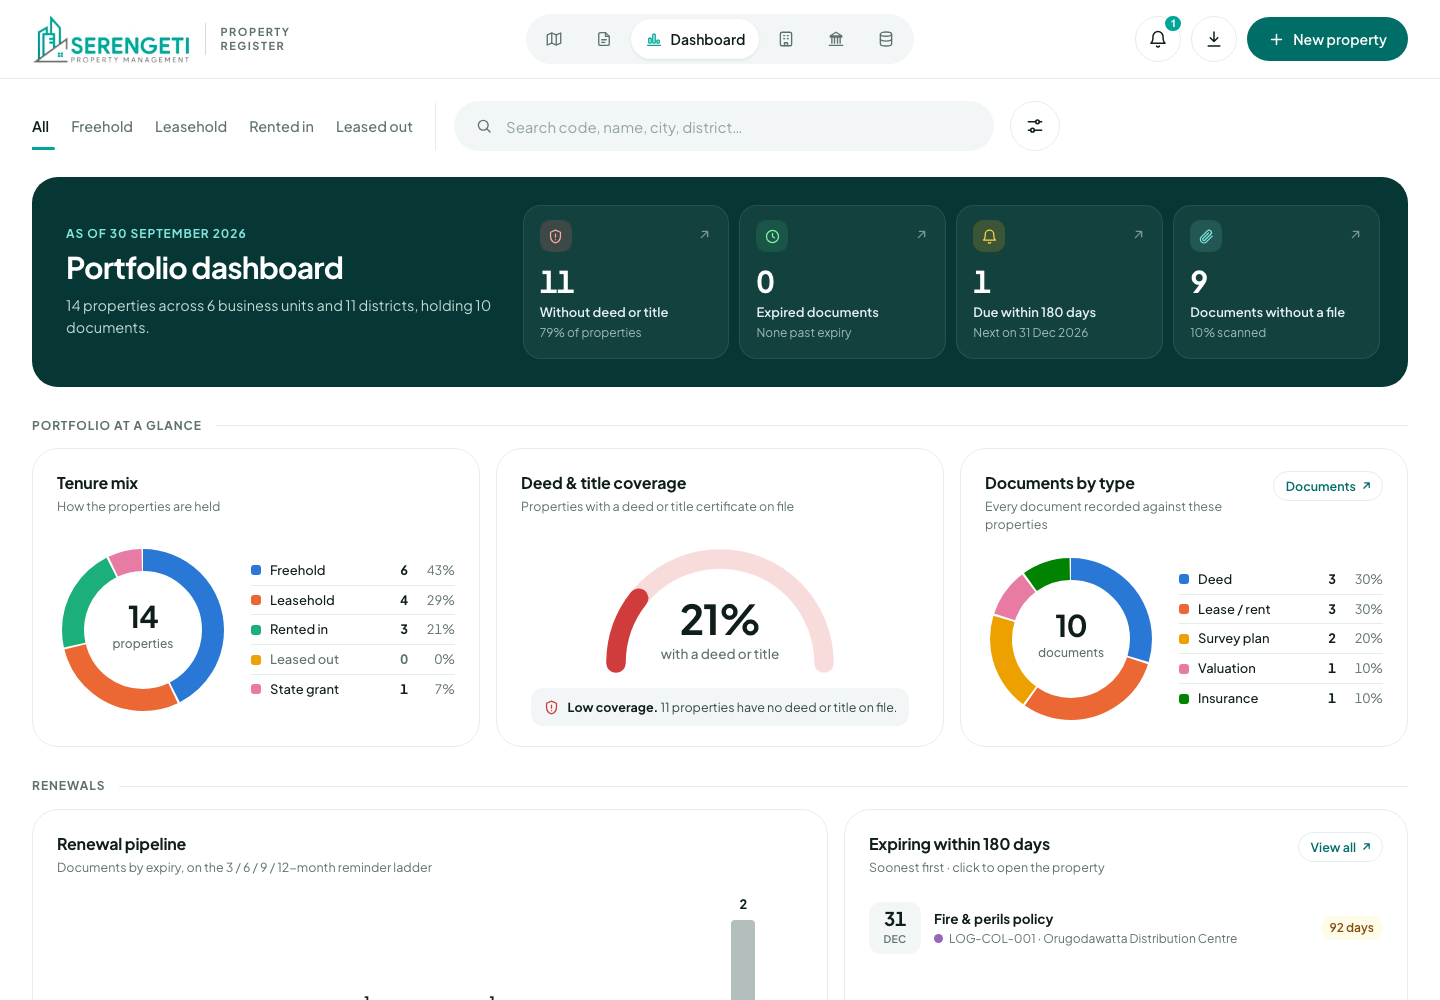
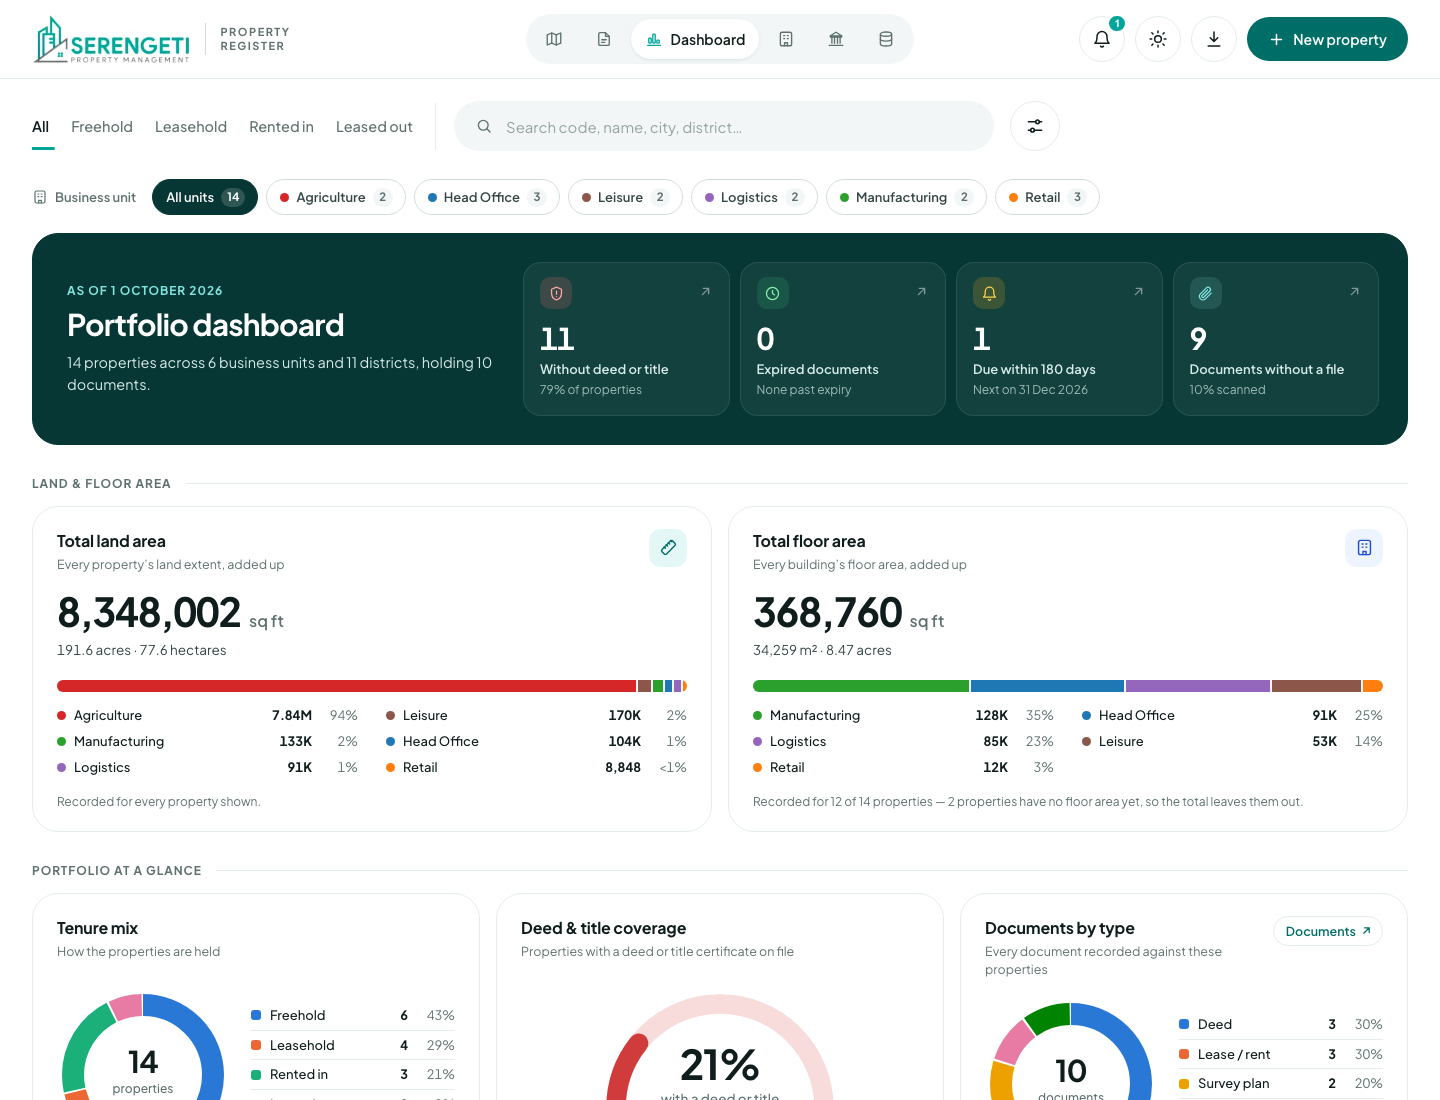
Total land and floor area on the dashboard, with a business-unit filter
The dashboard opens with a row of business-unit chips (one unit, several
to compare, or All) driving the shared SBU filter, so every figure and the
other modules follow it. A new Land & floor area section sums both areas
in square feet over the properties shown, with acres/hectares or m²
alongside, a bar split by business unit, a legend of shares, and how many
properties have the area recorded. The land chart and largest holdings
now read in sq ft too. /api/stats returns land_sqft, floor_sqft and
their recorded counts, overall and per business unit.

diff --git a/web/js/app.js b/web/js/app.js
@@ -1450,23 +1450,110 @@
   }
 
   function landBars(stats) {
-    const withLand = stats.bySbu.filter((s) => s.extent_perches > 0);
-    const total = withLand.reduce((sum, s) => sum + s.extent_perches, 0);
+    const withLand = stats.bySbu.filter((s) => s.land_sqft > 0);
+    const total = withLand.reduce((sum, s) => sum + s.land_sqft, 0);
     const rows = withLand
-      .sort((a, b) => b.extent_perches - a.extent_perches)
+      .sort((a, b) => b.land_sqft - a.land_sqft)
       .map(function (s) {
-        const acres = s.extent_perches / 160;
-        const share = s.extent_perches / total * 100;
-        return { label: s.name, value: acres, dot: s.color,
-                 display: Fmt.num(acres, acres < 10 ? 1 : 0) + ' ac · ' +
-                   (share < 1 ? '<1' : Math.round(share)) + '%' };
+        const share = s.land_sqft / total * 100;
+        return { label: s.name, value: s.land_sqft, dot: s.color,
+                 display: sqftShort(s.land_sqft) + ' · ' + (share < 1 ? '<1' : Math.round(share)) + '%' };
       });
-    const chart = Charts.hbars({ items: rows, className: 'wide-val', emptyText: stats.totals.properties
+    return Charts.hbars({ items: rows, className: 'wide-val', emptyText: stats.totals.properties
       ? 'No land extent recorded' : 'No properties match' });
-    // The exact figures, in the unit the register records.
-    const perches = stats.bySbu.filter((s) => s.extent_perches > 0)
-      .map((s) => s.code + ' ' + Fmt.num(s.extent_perches, 1)).join(' · ');
-    return chart + (perches ? '<p class="chart-foot">In perches: ' + esc(perches) + '</p>' : '');
+  }
+
+  /* ---------- totals: land and floor area, in square feet ---------- */
+
+  // 7.84M, 170K, 8,848: a legend's figures in one consistent short form.
+  function compactNum(n) {
+    if (n >= 1e6) return Fmt.num(n / 1e6, n >= 1e7 ? 1 : 2).replace(/\.?0+$/, '') + 'M';
+    if (n >= 1e4) return Fmt.num(Math.round(n / 1e3)) + 'K';
+    return Fmt.num(Math.round(n));
+  }
+
+  function areaCardHtml(stats, kind) {
+    const t = stats.totals;
+    const land = kind === 'land';
+    const total = land ? t.land_sqft : t.floor_sqft;
+    const recorded = land ? t.with_land : t.with_floor;
+    const key = land ? 'land_sqft' : 'floor_sqft';
+    const parts = stats.bySbu.filter((x) => x[key] > 0).sort((a, b) => b[key] - a[key]);
+    const title = land ? 'Total land area' : 'Total floor area';
+    const sub = land ? 'Every property’s land extent, added up' : 'Every building’s floor area, added up';
+
+    let body;
+    if (!total) {
+      body = '<div class="chart-empty">' + (t.properties
+        ? (land ? 'No land extent recorded yet' : 'No floor area recorded yet')
+        : 'No properties match') + '</div>';
+    } else {
+      const alt = land
+        ? Fmt.num(total / 43560, 1) + ' acres · ' + Fmt.num(total / 107639.104, 1) + ' hectares'
+        : Fmt.num(Math.round(total / 10.7639104)) + ' m² · ' + Fmt.num(total / 43560, 2) + ' acres';
+      // One bar, split by business unit in each unit's own colour.
+      const bar = '<div class="area-bar" role="img" aria-label="' + esc(title + ' by business unit') + '">' +
+        parts.map(function (x) {
+          const share = x[key] / total * 100;
+          return '<span style="flex-grow:' + share.toFixed(3) + ';background:' + esc(x.color) + '"' +
+            ' tabindex="0" data-tip-label="' + esc(x.name) + '" data-tip-value="' +
+            esc(Fmt.num(Math.round(x[key])) + ' sq ft · ' + (share < 1 ? '<1' : Math.round(share)) + '%') + '"></span>';
+        }).join('') + '</div>';
+      const legend = '<ul class="area-legend">' + parts.map(function (x) {
+        const share = x[key] / total * 100;
+        return '<li><i style="background:' + esc(x.color) + '"></i><span>' + esc(x.name) + '</span>' +
+          '<b title="' + esc(Fmt.num(Math.round(x[key])) + ' sq ft') + '">' + esc(compactNum(x[key])) + '</b>' +
+          '<em>' + (share < 1 ? '<1' : Math.round(share)) + '%</em></li>';
+      }).join('') + '</ul>';
+      const missing = t.properties - recorded;
+      body = '<div class="area-total"><b>' + Fmt.num(Math.round(total)) + '</b><span>sq ft</span></div>' +
+        '<p class="area-alt">' + esc(alt) + '</p>' + bar + legend +
+        '<p class="chart-foot">' + (missing
+          ? 'Recorded for ' + recorded + ' of ' + plural(t.properties, 'property', 'properties') +
+            ' — ' + plural(missing, 'property has', 'properties have') + ' no ' +
+            (land ? 'land extent' : 'floor area') + ' yet, so the total leaves ' + (missing === 1 ? 'it' : 'them') + ' out.'
+          : 'Recorded for every property shown.') + '</p>';
+    }
+    return '<section class="chart-card span-6 area-card is-' + kind + '">' +
+      '<header class="chart-head"><div><h3>' + esc(title) + '</h3><p class="chart-sub">' + esc(sub) + '</p></div>' +
+        '<span class="area-icon">' + icon(land ? 'ruler' : 'building') + '</span></header>' +
+      body + '</section>';
+  }
+
+  /* ---------- the dashboard's business-unit filter ---------- */
+
+  function dashFilterHtml() {
+    const sel = state.selectedSbus;
+    const total = state.sbus.reduce((sum, x) => sum + x.property_count, 0);
+    const chip = (id, on, inner, label) =>
+      '<button type="button" class="df-chip' + (on ? ' is-on' : '') + '" data-dash-sbu="' + id + '" ' +
+        'aria-pressed="' + on + '"' + (label ? ' title="' + esc(label) + '"' : '') + '>' + inner + '</button>';
+    return '<div class="dash-filter" role="group" aria-label="Filter the dashboard by business unit">' +
+      '<span class="df-label">' + icon('building') + 'Business unit</span>' +
+      '<div class="df-chips">' +
+        chip('all', !sel, 'All units <b>' + total + '</b>') +
+        state.sbus.map((x) => chip(x.id, !!sel && sel.indexOf(x.id) !== -1,
+          '<i style="background:' + esc(x.color) + '"></i>' + esc(x.name) + ' <b>' + x.property_count + '</b>',
+          x.code + ' — ' + x.name + (sel ? '' : ' · click to show only this unit; add more to compare')
+        )).join('') +
+      '</div>' +
+    '</div>';
+  }
+
+  // From "All", a chip shows just that unit; further chips add to it; removing
+  // the last one returns to All.
+  function pickDashSbu(value) {
+    if (value === 'all') {
+      state.selectedSbus = null;
+    } else {
+      const id = Number(value);
+      const sel = state.selectedSbus ? state.selectedSbus.slice() : [];
+      const at = sel.indexOf(id);
+      if (at === -1) sel.push(id); else sel.splice(at, 1);
+      state.selectedSbus = !sel.length || sel.length === state.sbus.length ? null : sel;
+    }
+    renderSbuFilters();
+    refreshProperties();
   }
 
   function provinceColumns(stats) {
@@ -1491,7 +1578,7 @@
 
   function largestHoldings() {
     const ranked = state.properties
-      .map((p) => ({ p: p, perches: toPerches(p.extent_value, p.extent_unit) }))
+      .map((p) => ({ p: p, perches: (p.extent_sqft || 0) / 272.25 }))
       .filter((x) => x.perches > 0)
       .sort((a, b) => b.perches - a.perches);
     if (!ranked.length) {
@@ -1500,20 +1587,21 @@
     }
     const totalLand = ranked.reduce((s, x) => s + x.perches, 0);
     return '<ul class="holdings">' + ranked.slice(0, 5).map(function (x) {
-      const acres = x.perches / 160;
       const share = Math.round(x.perches / totalLand * 100);
       return '<li data-open="' + x.p.id + '" tabindex="0">' +
         '<span class="lh-thumb">' + coverHtml(x.p, 0.78) + '</span>' +
         '<span class="lh-text"><b>' + esc(x.p.name) + '</b>' +
           '<span>' + esc(x.p.property_code) + ' · ' + esc(x.p.sbu_code) + '</span></span>' +
-        '<span class="lh-figs"><b>' + Fmt.num(acres, acres < 10 ? 1 : 0) + ' ac</b>' +
+        '<span class="lh-figs"><b>' + esc(sqftShort(x.p.extent_sqft)) + '</b>' +
           '<span class="lh-share">' + share + '% of land</span></span>' +
       '</li>';
     }).join('') + '</ul>';
   }
 
   function chartsHtml(stats) {
-    return sectionHead('Portfolio at a glance') +
+    return sectionHead('Land & floor area') +
+      '<div class="chart-grid">' + areaCardHtml(stats, 'land') + areaCardHtml(stats, 'floor') + '</div>' +
+      sectionHead('Portfolio at a glance') +
       '<div class="chart-grid">' +
         chartCard({ span: 4, title: 'Tenure mix', sub: 'How the properties are held',
                     body: tenureDonut(stats) }) +
@@ -1532,7 +1620,7 @@
       '</div>' +
       sectionHead('Land & location') +
       '<div class="chart-grid">' +
-        chartCard({ span: 7, title: 'Land extent by business unit', sub: 'Acres and share of all land, largest first',
+        chartCard({ span: 7, title: 'Land by business unit', sub: 'Square feet and share of all land, largest first',
                     body: landBars(stats) }) +
         chartCard({ span: 5, title: 'Largest holdings', sub: 'By land extent · click to open',
                     body: largestHoldings(), link: { go: 'register', label: 'Register' } }) +
@@ -1613,6 +1701,7 @@
     }
 
     host.innerHTML =
+      dashFilterHtml() +
       dashHeroHtml(stats) +
       filterBannerHtml(stats) +
       chartsHtml(stats) +
@@ -1621,6 +1710,8 @@
     if (!host.__dashGo) {
       host.__dashGo = true;
       host.addEventListener('click', function (event) {
+        const pick = event.target.closest('[data-dash-sbu]');
+        if (pick) { pickDashSbu(pick.dataset.dashSbu); return; }
         const target = event.target.closest('[data-dash-go]');
         if (target) goFromDashboard(target.dataset.dashGo);
       });

diff --git a/web/css/styles.css b/web/css/styles.css
@@ -2126,3 +2126,85 @@ html.theme-switching *, html.theme-switching *::before, html.theme-switching *::
 /* Fractional zoom can leave hairline gaps between map tiles, which show as
    seams on the dark map; overlapping each tile by half a pixel closes them. */
 .leaflet-tile-container img.leaflet-tile { width: 256.5px !important; height: 256.5px !important; }
+
+/* ==========================================================================
+   Dashboard: business-unit filter and area totals
+   ========================================================================== */
+
+/* one row of filters above everything it changes */
+.dash-filter {
+  display: flex; align-items: center; gap: 14px;
+  margin-bottom: 16px;
+}
+.df-label {
+  flex: 0 0 auto; display: inline-flex; align-items: center; gap: 7px;
+  font-size: 13px; font-weight: 600; color: var(--text-muted);
+}
+.df-label .ic { width: 16px; height: 16px; }
+.df-chips {
+  display: flex; gap: 8px; min-width: 0;
+  overflow-x: auto; scrollbar-width: none; padding: 2px;
+}
+.df-chips::-webkit-scrollbar { display: none; }
+.df-chip {
+  flex: 0 0 auto; display: inline-flex; align-items: center; gap: 7px;
+  height: 36px; padding: 0 12px 0 13px;
+  border: 1px solid var(--border-strong); border-radius: var(--pill);
+  background: var(--surface); color: var(--text-2);
+  font: inherit; font-size: 13px; font-weight: 600; white-space: nowrap; cursor: pointer;
+  transition: background .15s, border-color .15s, color .15s;
+}
+.df-chip i { width: 9px; height: 9px; border-radius: 50%; flex: 0 0 auto; }
+.df-chip b {
+  min-width: 20px; padding: 1px 6px; border-radius: var(--pill);
+  background: var(--surface-2); color: var(--text-muted);
+  font-size: 11.5px; text-align: center;
+}
+.df-chip:hover { border-color: var(--accent); color: var(--text); }
+.df-chip:focus-visible { outline: 3px solid var(--brand-500); outline-offset: 2px; }
+.df-chip.is-on { background: var(--inverse); border-color: var(--inverse); color: var(--on-inverse); }
+.df-chip.is-on b { background: color-mix(in srgb, var(--on-inverse) 16%, transparent); color: var(--on-inverse); }
+.df-chip.is-on i { box-shadow: 0 0 0 2px var(--inverse), 0 0 0 3px color-mix(in srgb, var(--on-inverse) 60%, transparent); }
+
+.chart-card.span-6 { grid-column: span 6; }
+
+/* the two totals */
+.area-icon {
+  flex: 0 0 auto; width: 38px; height: 38px; display: grid; place-items: center;
+  border-radius: 12px; background: var(--accent-soft); color: var(--accent-text);
+}
+.area-icon .ic { width: 19px; height: 19px; }
+.area-card.is-floor .area-icon { background: var(--info-soft); color: var(--info-text); }
+.area-total { display: flex; align-items: baseline; gap: 8px; }
+.area-total b {
+  font-size: 40px; font-weight: 700; line-height: 1; letter-spacing: -.035em;
+  font-variant-numeric: tabular-nums;
+}
+.area-total span { font-size: 16px; font-weight: 600; color: var(--text-muted); }
+.area-alt { margin-top: 8px; font-size: 13.5px; color: var(--text-2); font-variant-numeric: tabular-nums; }
+
+/* share by business unit: one bar, 2px surface gaps, rounded ends */
+.area-bar {
+  display: flex; gap: 2px; height: 12px; margin-top: 20px;
+  border-radius: var(--pill); overflow: hidden; background: var(--surface-2);
+}
+.area-bar span { display: block; min-width: 4px; flex-basis: 0; transition: filter .15s; }
+.area-bar span:hover, .area-bar span:focus-visible { filter: brightness(1.12); outline: none; }
+
+.area-legend {
+  list-style: none; margin: 14px 0 0; padding: 0;
+  display: grid; grid-template-columns: repeat(auto-fill, minmax(min(250px, 100%), 1fr)); gap: 7px 28px;
+}
+.area-legend li {
+  display: grid; grid-template-columns: 9px minmax(0, 1fr) auto 38px; align-items: center; gap: 8px;
+  font-size: 13px;
+}
+.area-legend i { width: 9px; height: 9px; border-radius: 50%; }
+.area-legend span { font-weight: 500; white-space: nowrap; overflow: hidden; text-overflow: ellipsis; }
+.area-legend b { font-variant-numeric: tabular-nums; }
+.area-legend em { font-style: normal; text-align: right; color: var(--text-muted); font-variant-numeric: tabular-nums; }
+
+@media (max-width: 720px) {
+  .dash-filter { flex-direction: column; align-items: stretch; gap: 8px; }
+  .area-total b { font-size: 32px; }
+}

diff --git a/server/api.py b/server/api.py
@@ -825,7 +825,9 @@ def get_stats(ctx):
                                     WHEN f.extent_unit='HECTARE' THEN f.extent_value*395.37
                                     WHEN f.extent_unit='SQ_M' THEN f.extent_value*0.0395369
                                     WHEN f.extent_unit='SQ_FT' THEN f.extent_value/272.25
-                                    ELSE f.extent_value END), 0) AS extent_perches
+                                    ELSE f.extent_value END), 0) AS extent_perches,
+                  COALESCE(SUM(f.extent_sqft), 0) AS land_sqft,
+                  COALESCE(SUM(f.building_area_sqft), 0) AS floor_sqft
            FROM sbu s LEFT JOIN (%s) f ON f.sbu_id = s.id
            GROUP BY s.id ORDER BY property_count DESC, s.name""" % subset)]
     if where:
@@ -892,6 +894,12 @@ def get_stats(ctx):
             """SELECT COUNT(*) AS n FROM document d
                WHERE d.stored_name IS NOT NULL
                  AND d.property_id IN (SELECT id FROM (%s))""" % subset),
+        # Land and floor area, summed in square feet, with how many properties
+        # actually have each recorded (a total over half the register says so).
+        "land_sqft": scalar("SELECT COALESCE(SUM(extent_sqft), 0) AS n FROM (%s)" % subset),
+        "floor_sqft": scalar("SELECT COALESCE(SUM(building_area_sqft), 0) AS n FROM (%s)" % subset),
+        "with_land": scalar("SELECT COUNT(*) AS n FROM (%s) WHERE extent_sqft > 0" % subset),
+        "with_floor": scalar("SELECT COUNT(*) AS n FROM (%s) WHERE building_area_sqft > 0" % subset),
         "without_deed": scalar(
             """SELECT COUNT(*) AS n FROM (%s) f WHERE NOT EXISTS
                  (SELECT 1 FROM document d WHERE d.property_id = f.id

diff --git a/README.md b/README.md
@@ -178,8 +178,6 @@ table all show areas in **square feet**, so properties compare at a glance:
 - Hovering any figure shows the unit it was recorded in ("Recorded as 126 acres").
 - *Largest extent* sorts on land in sq ft.
 
-The dashboard's land charts stay in acres, which suit estate-sized totals.
-
 Every property's sq ft figures are worked out when it is saved. Existing
 properties were converted when the database was upgraded; their building areas
 were recorded in sq ft before, so they keep that unit. The property panel shows
@@ -251,7 +249,29 @@ scope of what is covered, and four signals, each a shortcut to the list behind i
 - **Documents without a file** opens the Documents module on its *No file* tab.
 
 Each signal shows its state with an icon and words (critical, due, clear), not
-colour alone. Below the band come four sections, each headed by a rule:
+colour alone.
+
+**Business-unit filter** — a row of chips at the top of the dashboard, one per
+unit with its colour and property count:
+
+- Click a unit to show only that unit.
+- Click more units to compare them together.
+- **All units** goes back to the whole register.
+
+It is the same business-unit filter the Portfolio and Documents use, so moving
+between modules keeps the selection.
+
+Below the band come five sections, each headed by a rule:
+
+- *Land & floor area*:
+  - **Total land area** and **Total floor area** — the sum over every property
+    shown, in square feet. Land is also given in acres and hectares, floor area
+    in m² and acres.
+  - Each total has a bar split by business unit in the unit's colour, with a
+    legend of each unit's share.
+  - A line underneath says how many properties have the area recorded
+    ("Recorded for 12 of 14 properties"), so a partial total never passes for
+    a complete one.
 
 - *Portfolio at a glance*:
   - **Tenure mix** and **Documents by type** — donut charts with a legend that
@@ -266,9 +286,8 @@ colour alone. Below the band come four sections, each headed by a rule:
     first, each with its date, business-unit dot and days left. Click one to
     open its property.
 - *Land & location*:
-  - **Land extent by business unit** — acres and share of all land, with the
-    exact perches beneath.
-  - **Largest holdings** — the five biggest properties by land.
+  - **Land by business unit** — square feet and share of all land.
+  - **Largest holdings** — the five biggest properties by land, in sq ft.
   - **Properties by province** — all nine provinces, shown as bars instead of
     columns on a phone.
   - **Property types**.
